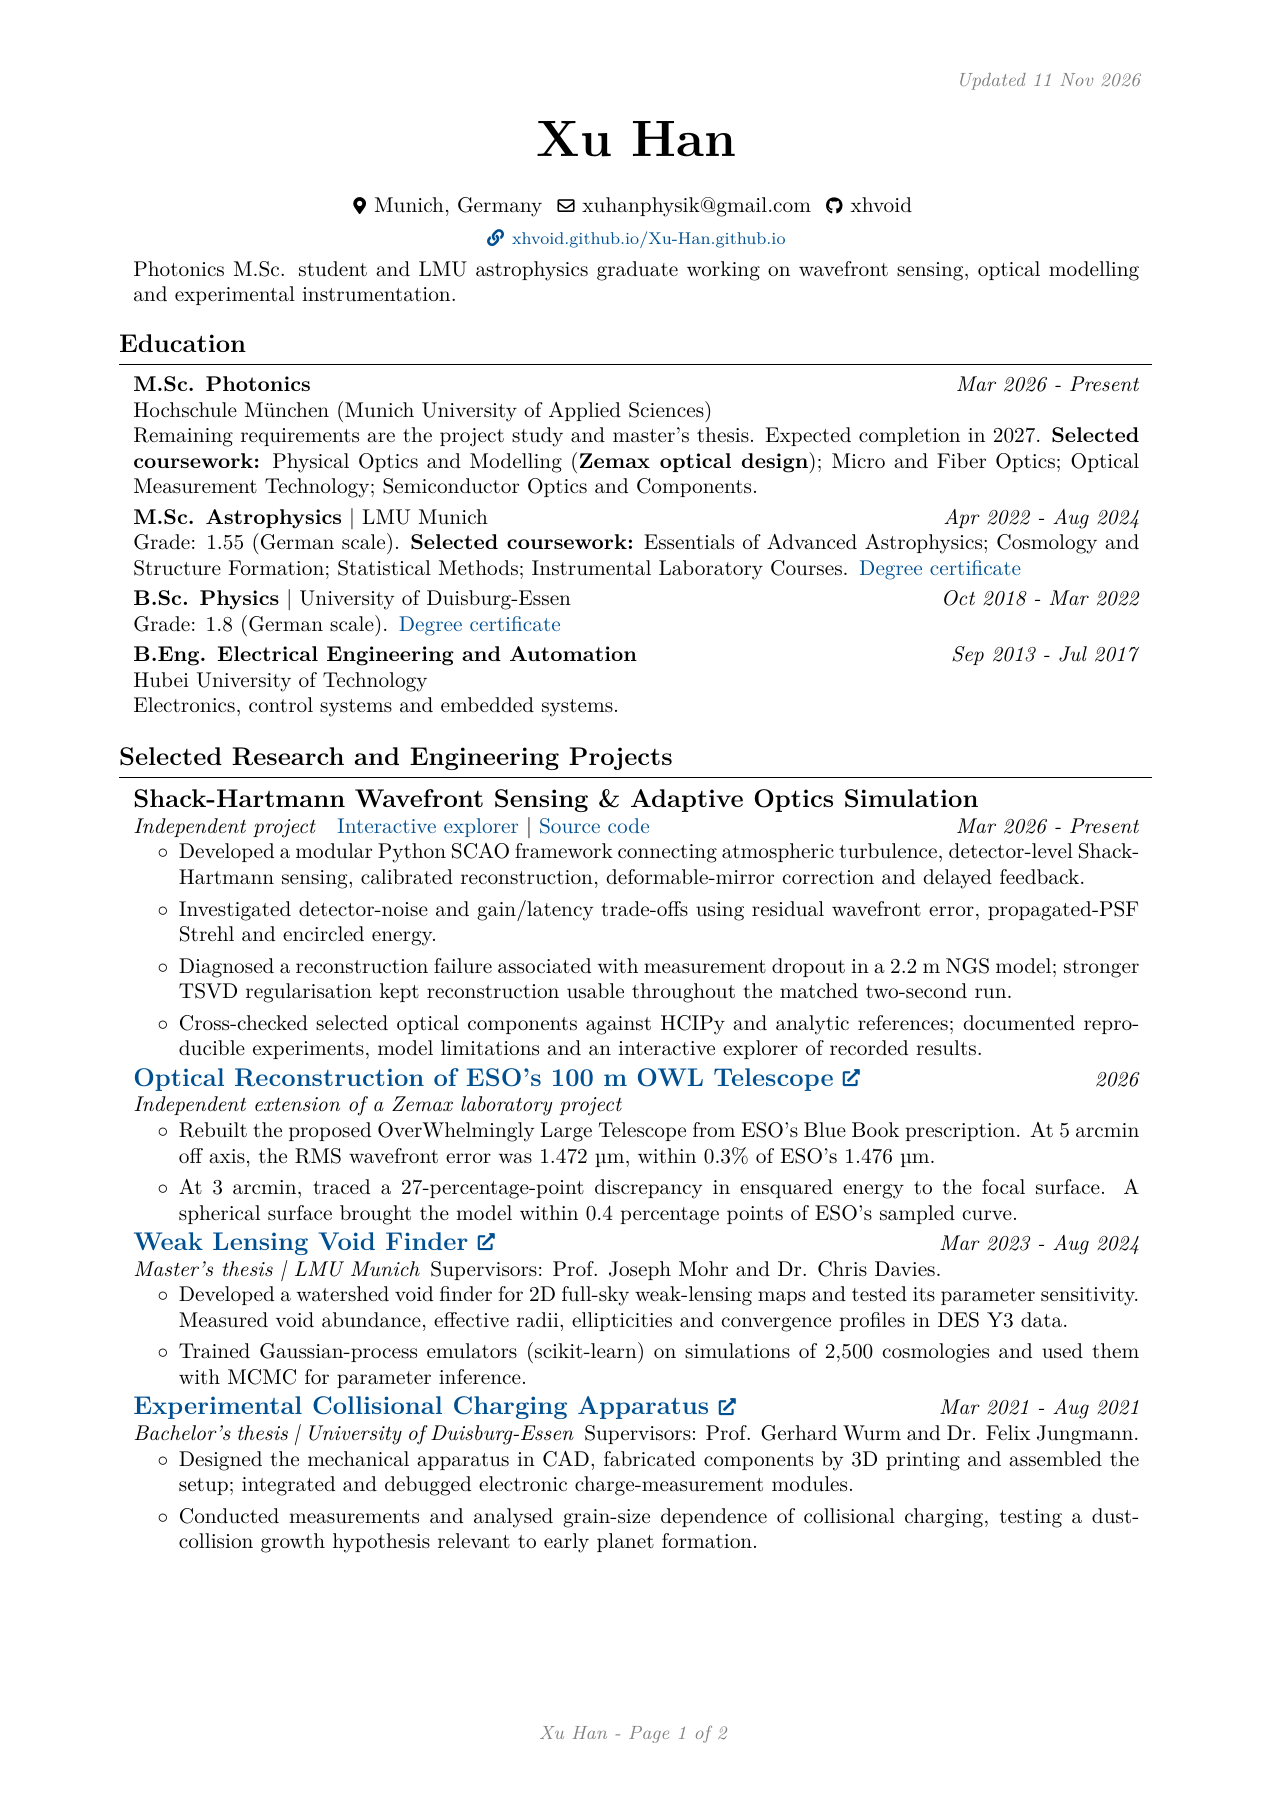
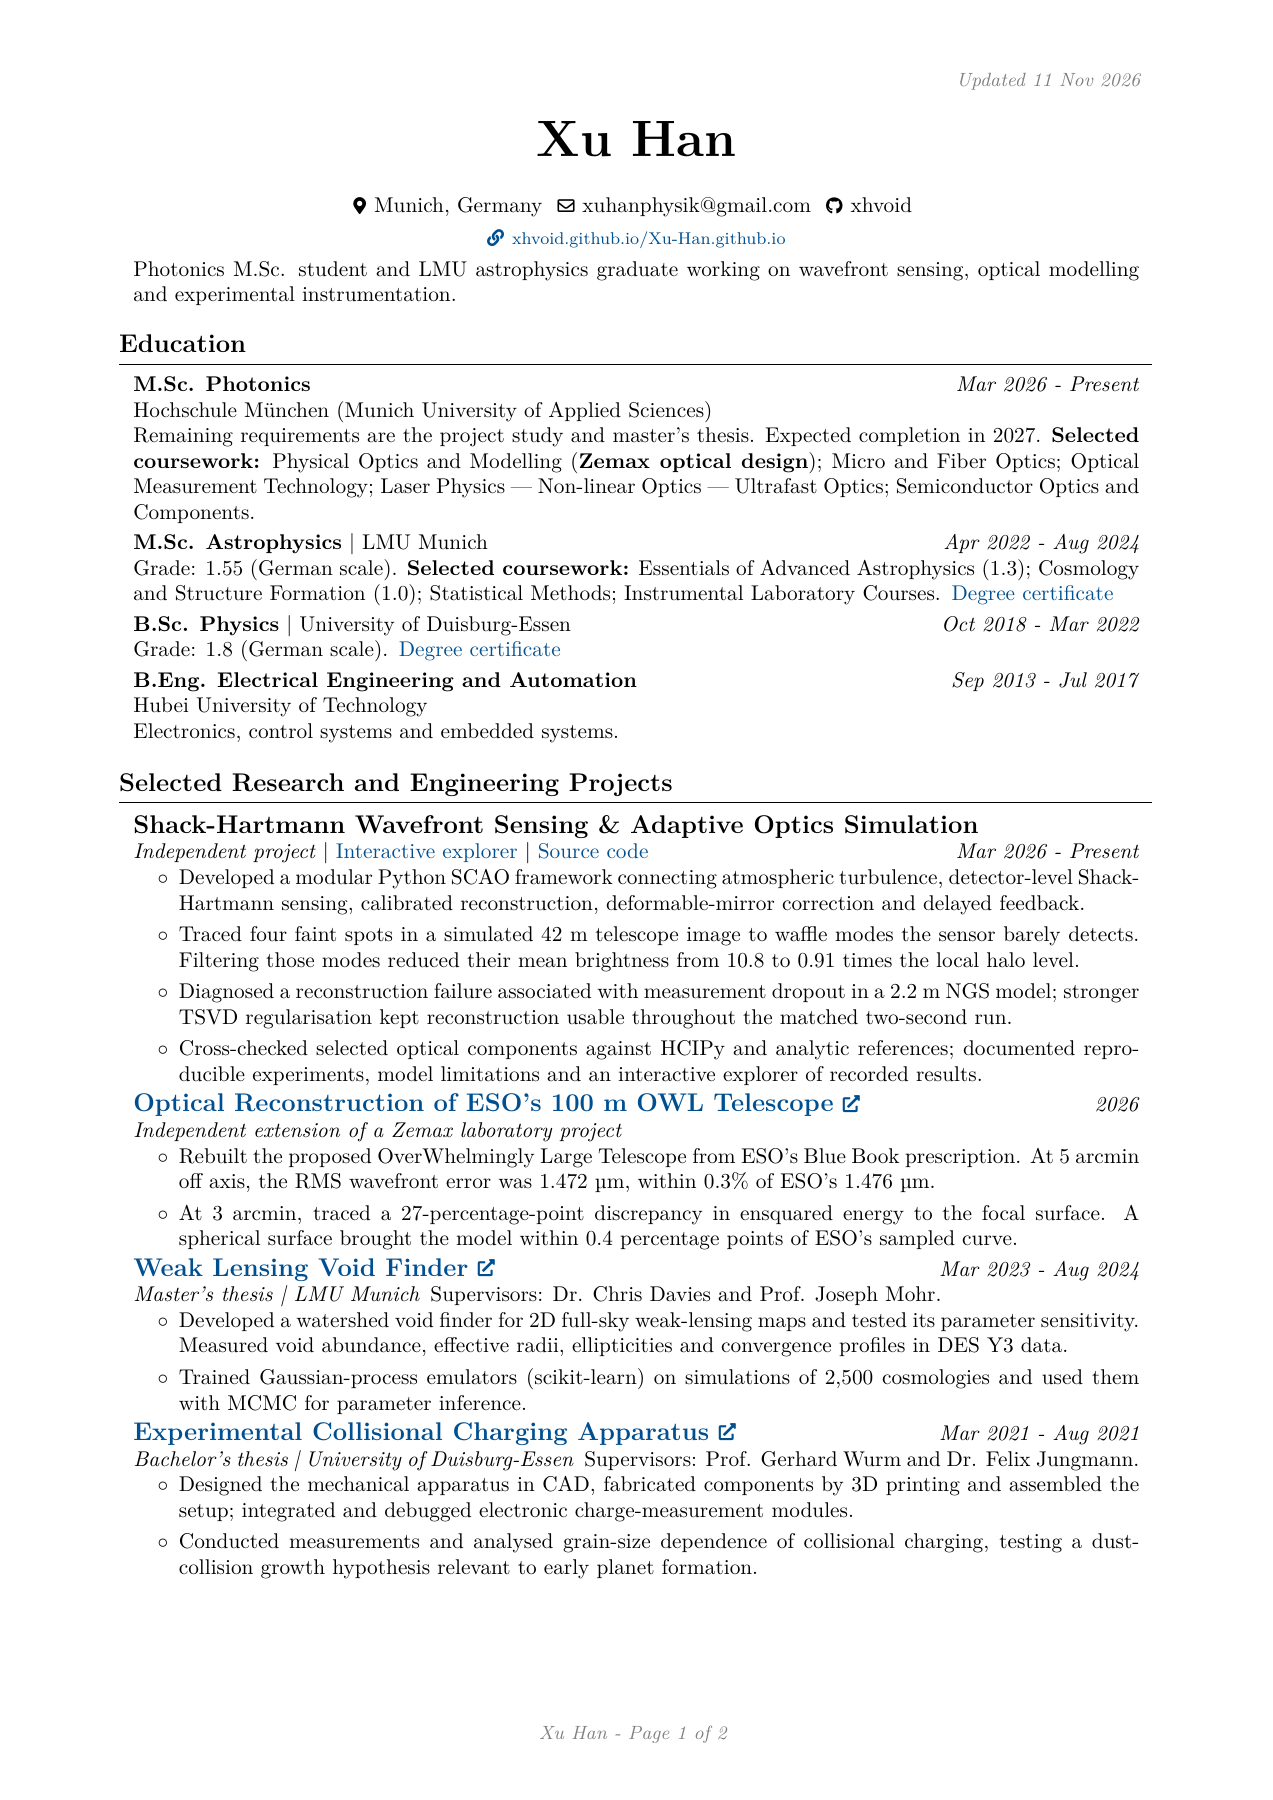
Document the 42 m AO case, bench work and academic references in the CV

Changed region(s): [[0.0919, 0.2489, 0.8885, 0.8711], [0.5821, 0.2489, 0.6434, 0.28]]

diff --git a/cv/Xu_Han_CV.tex b/cv/Xu_Han_CV.tex
@@ -180,14 +180,14 @@ Photonics M.Sc. student and LMU astrophysics graduate working on wavefront sensi
 Hochschule München (Munich University of Applied Sciences)
 \end{onecolentry}
 \begin{onecolentry}
-Remaining requirements are the project study and master's thesis. Expected completion in 2027. \textbf{Selected coursework:} Physical Optics and Modelling (\textbf{Zemax optical design}); Micro and Fiber Optics; Optical Measurement Technology; Semiconductor Optics and Components.
+Remaining requirements are the project study and master's thesis. Expected completion in 2027. \textbf{Selected coursework:} Physical Optics and Modelling (\textbf{Zemax optical design}); Micro and Fiber Optics; Optical Measurement Technology; Laser Physics — Non-linear Optics — Ultrafast Optics; Semiconductor Optics and Components.
 \end{onecolentry}
 \vspace{0.08 cm}
 \begin{twocolentry}{\textit{Apr 2022 - Aug 2024}}
 \textbf{M.Sc. Astrophysics} | LMU Munich
 \end{twocolentry}
 \begin{onecolentry}
-Grade: 1.55 (German scale). \textbf{Selected coursework:} Essentials of Advanced Astrophysics; Cosmology and Structure Formation; Statistical Methods; Instrumental Laboratory Courses.\enspace \hrefWithoutArrow{https://drive.google.com/file/d/1NQSRpt\_x9CCdSJrJznqkt5ncOElWJPhy/view?usp=drivesdk}{Degree certificate}
+Grade: 1.55 (German scale). \textbf{Selected coursework:} Essentials of Advanced Astrophysics (1.3); Cosmology and Structure Formation (1.0); Statistical Methods; Instrumental Laboratory Courses.\enspace \hrefWithoutArrow{https://drive.google.com/file/d/1NQSRpt\_x9CCdSJrJznqkt5ncOElWJPhy/view?usp=drivesdk}{Degree certificate}
 \end{onecolentry}
 \vspace{0.08 cm}
 \begin{twocolentry}{\textit{Oct 2018 - Mar 2022}}
@@ -212,12 +212,12 @@ Electronics, control systems and embedded systems.
 {\large\textbf{Shack-Hartmann Wavefront Sensing \& Adaptive Optics Simulation}}
 \end{onecolentry}
 \begin{twocolentry}{\textit{Mar 2026 - Present}}
-\textit{Independent project}\quad \hrefWithoutArrow{https://xhvoid.github.io/Shack-Hartmann-AO-Simulation/}{Interactive explorer} | \hrefWithoutArrow{https://github.com/xhvoid/Shack-Hartmann-AO-Simulation}{Source code}
+\textit{Independent project} | \hrefWithoutArrow{https://xhvoid.github.io/Shack-Hartmann-AO-Simulation/}{Interactive explorer} | \hrefWithoutArrow{https://github.com/xhvoid/Shack-Hartmann-AO-Simulation}{Source code}
 \end{twocolentry}
 \begin{onecolentry}
 \begin{highlights}
 \item Developed a modular Python SCAO framework connecting atmospheric turbulence, detector-level Shack-Hartmann sensing, calibrated reconstruction, deformable-mirror correction and delayed feedback.
-\item Investigated detector-noise and gain/latency trade-offs using residual wavefront error, propagated-PSF Strehl and encircled energy.
+\item Traced four faint spots in a simulated 42 m telescope image to waffle modes the sensor barely detects. Filtering those modes reduced their mean brightness from 10.8 to 0.91 times the local halo level.
 \item Diagnosed a reconstruction failure associated with measurement dropout in a 2.2 m NGS model; stronger TSVD regularisation kept reconstruction usable throughout the matched two-second run.
 \item Cross-checked selected optical components against HCIPy and analytic references; documented reproducible experiments, model limitations and an interactive explorer of recorded results.
 \end{highlights}
@@ -240,7 +240,7 @@ Electronics, control systems and embedded systems.
 {\large\textbf{\href{https://xhvoid.github.io/Xu-Han.github.io/files/watershed-voids-thesis.pdf}{Weak Lensing Void Finder}}}
 \end{twocolentry}
 \begin{onecolentry}
-\textit{Master's thesis | LMU Munich}\enspace Supervisors: Prof. Joseph Mohr and Dr. Chris Davies.
+\textit{Master's thesis | LMU Munich}\enspace Supervisors: Dr. Chris Davies and Prof. Joseph Mohr.
 \end{onecolentry}
 \begin{onecolentry}
 \begin{highlights}
@@ -266,7 +266,7 @@ Electronics, control systems and embedded systems.
 \section{Laboratory and Instrumentation Training}
 \begin{onecolentry}
 \begin{highlights}
-\item \textbf{Astronomical instrumentation laboratory:} Tested static and dynamic correction on LMU's ALPAO bench in July 2022 using a Shack-Hartmann sensor and deformable mirror. Other labs covered CCD imaging and reduction, optical interferometry and radio measurements of Galactic rotation.
+\item \textbf{Astronomical instrumentation laboratory:} Closed the Shack–Hartmann loop on LMU’s \mbox{ALPAO} bench in July 2022, first correcting static aberrations with the deformable mirror, then correcting turbulence introduced by a screen. Other labs covered CCD imaging and reduction, optical interferometry and radio measurements of Galactic rotation.
 \item \textbf{Photonics laboratory:} Measured laser beam quality (M²), shaped ultrashort pulses and characterised them by autocorrelation. Fibre experiments covered OTDR, polarisation, Bragg gratings and coupling. Also worked on APD measurements, laser spectra, laser interferometry and nonlinear optics.
 \item \textbf{Observatory experience:} Took and processed images with my supervisor at Wendelstein (43 cm).
 \end{highlights}
@@ -353,9 +353,11 @@ Exploring Telescope Optics: How Do the Largest Optical Systems Work? A 45-minute
 \begin{onecolentry}
 \textbf{Interests:} Astronomical photography and alpine mountaineering.
 \end{onecolentry}
-\renewcommand{\cvsectionreserve}{2\baselineskip}
-\section{Academic Reference}
+\section{Academic References}
 \begin{onecolentry}
-Prof. Joseph Mohr, M.Sc. thesis supervisor
+Dr. Chris Davies — direct supervisor for my M.Sc. thesis.
+\end{onecolentry}
+\begin{onecolentry}
+Prof. Joseph Mohr — M.Sc. thesis supervisor. Taught Cosmology and Structure Formation and co-taught Essentials of Advanced Astrophysics.
 \end{onecolentry}
 \end{document}

diff --git a/cv/build.py b/cv/build.py
@@ -9,7 +9,7 @@ header = old.split(r"\section{Education}", 1)[0]
 
 def esc(value):
     table = {"&": r"\&", "%": r"\%", "$": r"\$", "#": r"\#", "_": r"\_", "{": r"\{", "}": r"\}"}
-    return "".join(table.get(c, c) for c in value)
+    return "".join(table.get(c, c) for c in value).replace("ALPAO", r"\mbox{ALPAO}")
 
 def href(url, title):
     return r"\href{" + esc(url) + "}{" + esc(title) + "}"
@@ -35,7 +35,7 @@ def md_links(links):
 def project(item):
     if item.get("links"):
         result = one(r"{\large\textbf{" + esc(item["title"]) + "}}")
-        result += two(r"\textit{" + esc(item["role"]) + r"}\quad " + tex_links(item["links"]), item["date"])
+        result += two(r"\textit{" + esc(item["role"]) + "} | " + tex_links(item["links"]), item["date"])
     else:
         title = r"{\large\textbf{" + href(item["url"], item["title"]) + "}}"
         result = two(title, item["date"]) if item.get("date") else one(title)
@@ -87,7 +87,9 @@ parts.append(section("Technical Skills"))
 for k, v in data["skills"]:
     parts += [one(r"\textbf{" + esc(k) + ":} " + esc(v)), "\\vspace{0.04 cm}\n"]
 parts += [section("Languages and Interests"), one(r"\textbf{Languages:} " + esc(data["languages"])), one(r"\textbf{Interests:} " + esc(data["hobbies"]))]
-parts += [r"\renewcommand{\cvsectionreserve}{2\baselineskip}" + "\n", section("Academic Reference"), one(esc(data["academic_reference"])), "\\end{document}\n"]
+parts.append(section("Academic References"))
+parts.extend(one(esc(reference)) for reference in data["academic_references"])
+parts.append("\\end{document}\n")
 (out / "Xu_Han_CV.tex").write_text("".join(parts))
 
 md = ["# Xu Han", "Munich, Germany | [xuhanphysik@gmail.com](mailto:xuhanphysik@gmail.com) | [GitHub](https://github.com/xhvoid) | [Website](https://xhvoid.github.io/Xu-Han.github.io/)", data["summary"], "## Education"]
@@ -117,6 +119,6 @@ for item in data["activities"]:
     if item.get("text"):
         md += ["[" + item["text"] + "](" + item["url"] + ")" if item.get("url") else item["text"]]
 md += ["## Technical Skills", "\n".join("- **" + k + ":** " + v for k, v in data["skills"]), "## Languages and Interests", data["languages"], data["hobbies"]]
-md += ["## Academic Reference", data["academic_reference"]]
+md += ["## Academic References", *data["academic_references"]]
 (out / "Xu_Han_CV.md").write_text("\n\n".join(md) + "\n")
 print("Wrote CV source and matching editable text.")

diff --git a/cv/Xu_Han_CV.md b/cv/Xu_Han_CV.md
@@ -12,13 +12,13 @@ Mar 2026 - Present
 
 Remaining requirements are the project study and master's thesis. Expected completion in 2027.
 
-Selected coursework: Physical Optics and Modelling (Zemax optical design); Micro and Fiber Optics; Optical Measurement Technology; Semiconductor Optics and Components.
+Selected coursework: Physical Optics and Modelling (Zemax optical design); Micro and Fiber Optics; Optical Measurement Technology; Laser Physics — Non-linear Optics — Ultrafast Optics; Semiconductor Optics and Components.
 
 ### M.Sc. Astrophysics | LMU Munich
 
 Apr 2022 - Aug 2024
 
-Grade: 1.55 (German scale). Selected coursework: Essentials of Advanced Astrophysics; Cosmology and Structure Formation; Statistical Methods; Instrumental Laboratory Courses.
+Grade: 1.55 (German scale). Selected coursework: Essentials of Advanced Astrophysics (1.3); Cosmology and Structure Formation (1.0); Statistical Methods; Instrumental Laboratory Courses.
 
 [Degree certificate](https://drive.google.com/file/d/1NQSRpt_x9CCdSJrJznqkt5ncOElWJPhy/view?usp=drivesdk)
 
@@ -45,7 +45,7 @@ Independent project | Mar 2026 - Present
 [Interactive explorer](https://xhvoid.github.io/Shack-Hartmann-AO-Simulation/) | [Source code](https://github.com/xhvoid/Shack-Hartmann-AO-Simulation)
 
 - Developed a modular Python SCAO framework connecting atmospheric turbulence, detector-level Shack-Hartmann sensing, calibrated reconstruction, deformable-mirror correction and delayed feedback.
-- Investigated detector-noise and gain/latency trade-offs using residual wavefront error, propagated-PSF Strehl and encircled energy.
+- Traced four faint spots in a simulated 42 m telescope image to waffle modes the sensor barely detects. Filtering those modes reduced their mean brightness from 10.8 to 0.91 times the local halo level.
 - Diagnosed a reconstruction failure associated with measurement dropout in a 2.2 m NGS model; stronger TSVD regularisation kept reconstruction usable throughout the matched two-second run.
 - Cross-checked selected optical components against HCIPy and analytic references; documented reproducible experiments, model limitations and an interactive explorer of recorded results.
 
@@ -60,7 +60,7 @@ Independent extension of a Zemax laboratory project | 2026
 
 Master's thesis | LMU Munich | Mar 2023 - Aug 2024
 
-Supervisors: Prof. Joseph Mohr and Dr. Chris Davies.
+Supervisors: Dr. Chris Davies and Prof. Joseph Mohr.
 
 - Developed a watershed void finder for 2D full-sky weak-lensing maps and tested its parameter sensitivity. Measured void abundance, effective radii, ellipticities and convergence profiles in DES Y3 data.
 - Trained Gaussian-process emulators (scikit-learn) on simulations of 2,500 cosmologies and used them with MCMC for parameter inference.
@@ -76,7 +76,7 @@ Supervisors: Prof. Gerhard Wurm and Dr. Felix Jungmann.
 
 ## Laboratory and Instrumentation Training
 
-- **Astronomical instrumentation laboratory:** Tested static and dynamic correction on LMU's ALPAO bench in July 2022 using a Shack-Hartmann sensor and deformable mirror. Other labs covered CCD imaging and reduction, optical interferometry and radio measurements of Galactic rotation.
+- **Astronomical instrumentation laboratory:** Closed the Shack–Hartmann loop on LMU’s ALPAO bench in July 2022, first correcting static aberrations with the deformable mirror, then correcting turbulence introduced by a screen. Other labs covered CCD imaging and reduction, optical interferometry and radio measurements of Galactic rotation.
 - **Photonics laboratory:** Measured laser beam quality (M²), shaped ultrashort pulses and characterised them by autocorrelation. Fibre experiments covered OTDR, polarisation, Bragg gratings and coupling. Also worked on APD measurements, laser spectra, laser interferometry and nonlinear optics.
 - **Observatory experience:** Took and processed images with my supervisor at Wendelstein (43 cm).
 
@@ -130,6 +130,8 @@ Chinese (native); English (fluent); German (fluent); French (beginner).
 
 Astronomical photography and alpine mountaineering.
 
-## Academic Reference
+## Academic References
 
-Prof. Joseph Mohr, M.Sc. thesis supervisor
+Dr. Chris Davies — direct supervisor for my M.Sc. thesis.
+
+Prof. Joseph Mohr — M.Sc. thesis supervisor. Taught Cosmology and Structure Formation and co-taught Essentials of Advanced Astrophysics.

diff --git a/_pages/cv.md b/_pages/cv.md
@@ -7,8 +7,8 @@ author_profile: true
 
 My CV includes my adaptive optics simulation, Zemax reconstruction of ESO’s OWL telescope design, weak-lensing thesis and experimental work on collisional charging.
 
-<a class="btn btn--primary" href="{{ '/files/Xu_Han_CV.pdf?v=c2755127b6c9' | relative_url }}" target="_blank" rel="noopener">View CV (PDF)</a>
-<a class="btn" href="{{ '/files/Xu_Han_CV.pdf?v=c2755127b6c9' | relative_url }}" download="Xu_Han_CV.pdf">Download CV</a>
+<a class="btn btn--primary" href="{{ '/files/Xu_Han_CV.pdf?v=51479717ff38' | relative_url }}" target="_blank" rel="noopener">View CV (PDF)</a>
+<a class="btn" href="{{ '/files/Xu_Han_CV.pdf?v=51479717ff38' | relative_url }}" download="Xu_Han_CV.pdf">Download CV</a>
 
 *Updated 11 November 2026.*
 
@@ -19,8 +19,8 @@ My CV includes my adaptive optics simulation, Zemax reconstruction of ESO’s OW
 **B.Sc. Physics** — [Degree certificate](https://drive.google.com/file/d/1m3RH47N80jSDokQ6q0vlu0j9GsGqVNYK/view?usp=drivesdk)
 
 <div class="cv-preview" aria-label="Two-page CV preview">
-  <a href="{{ '/files/Xu_Han_CV.pdf?v=c2755127b6c9' | relative_url }}" target="_blank" rel="noopener" aria-label="Open the complete CV as a PDF">
-    <img src="{{ '/images/cv/xu-han-cv-page-1.png?v=a291ae75249b' | relative_url }}" alt="Xu Han's CV, page 1: education and selected research and engineering projects" width="1273" height="1800" decoding="async" style="width:100%;height:auto;border:1px solid #dde2e8;margin:0 0 1.5rem;">
-    <img src="{{ '/images/cv/xu-han-cv-page-2.png?v=1f5c992ab79b' | relative_url }}" alt="Xu Han's CV, page 2: laboratory training, additional projects, work, talks and technical skills" width="1273" height="1800" loading="lazy" decoding="async" style="width:100%;height:auto;border:1px solid #dde2e8;margin:0 0 1.5rem;">
+  <a href="{{ '/files/Xu_Han_CV.pdf?v=51479717ff38' | relative_url }}" target="_blank" rel="noopener" aria-label="Open the complete CV as a PDF">
+    <img src="{{ '/images/cv/xu-han-cv-page-1.png?v=fe09eca75d61' | relative_url }}" alt="Xu Han's CV, page 1: education and selected research and engineering projects" width="1273" height="1800" decoding="async" style="width:100%;height:auto;border:1px solid #dde2e8;margin:0 0 1.5rem;">
+    <img src="{{ '/images/cv/xu-han-cv-page-2.png?v=9a344df8cea6' | relative_url }}" alt="Xu Han's CV, page 2: laboratory training, additional projects, work, talks and technical skills" width="1273" height="1800" loading="lazy" decoding="async" style="width:100%;height:auto;border:1px solid #dde2e8;margin:0 0 1.5rem;">
   </a>
 </div>
